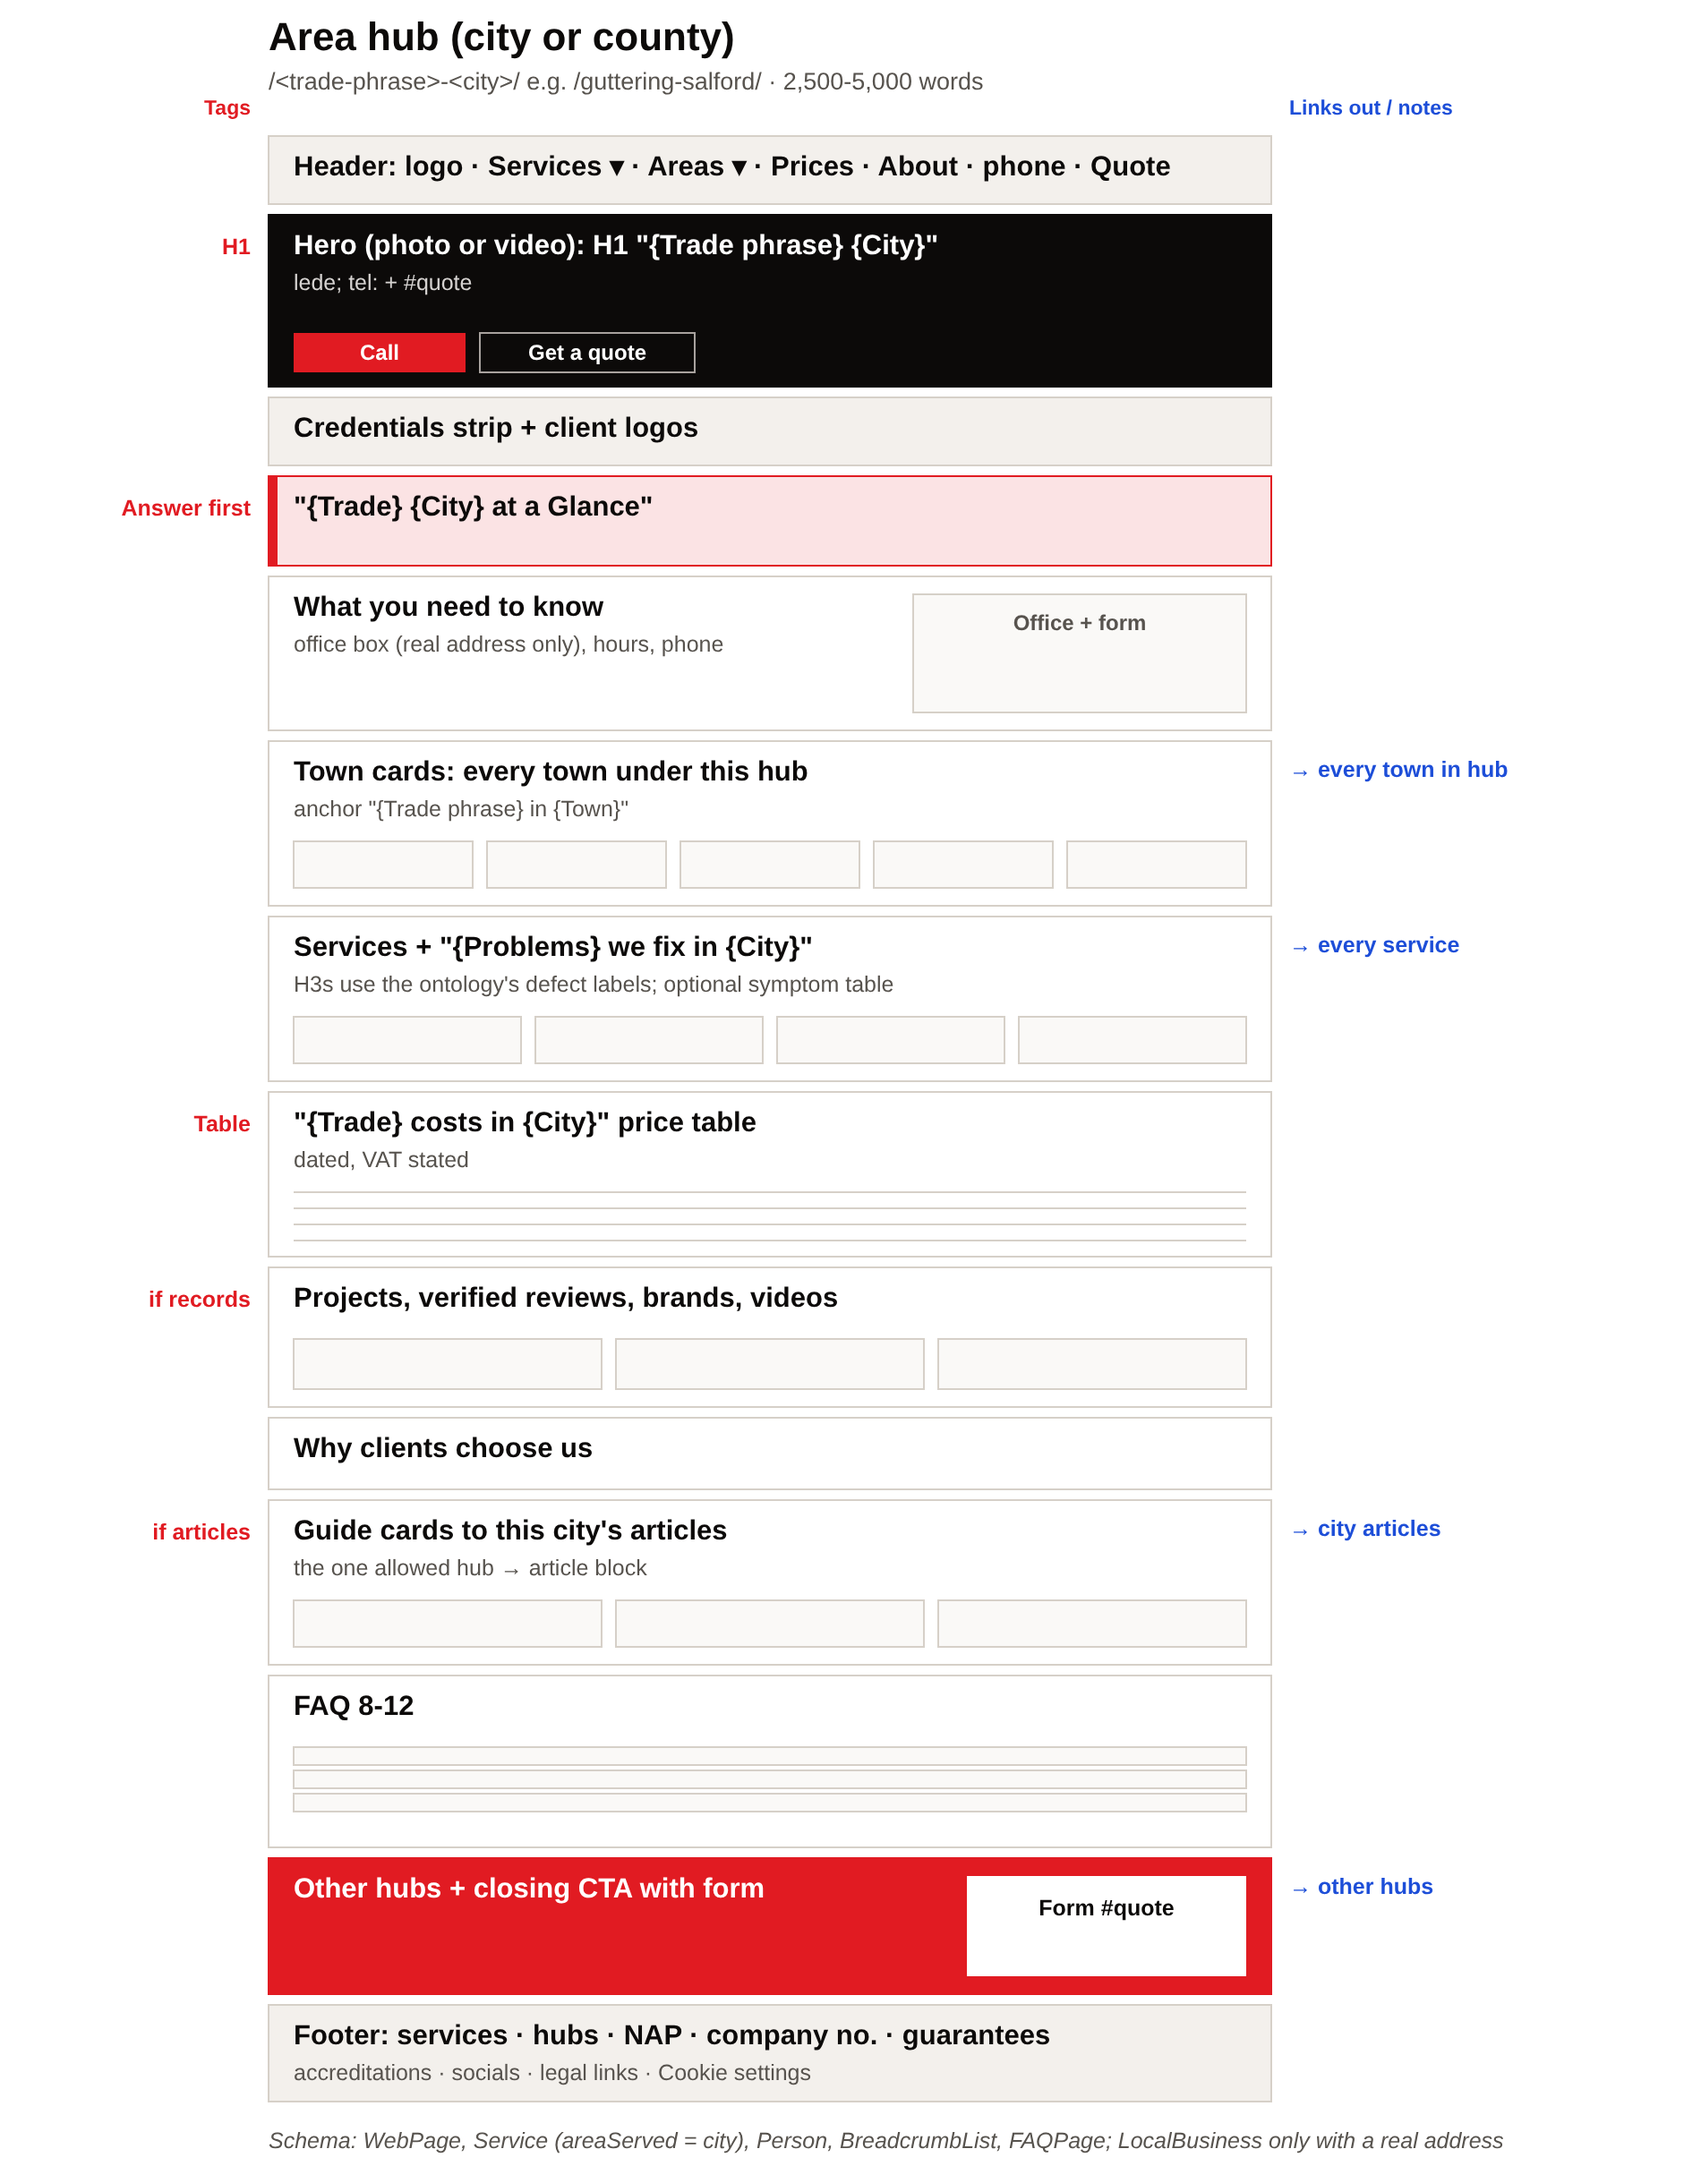
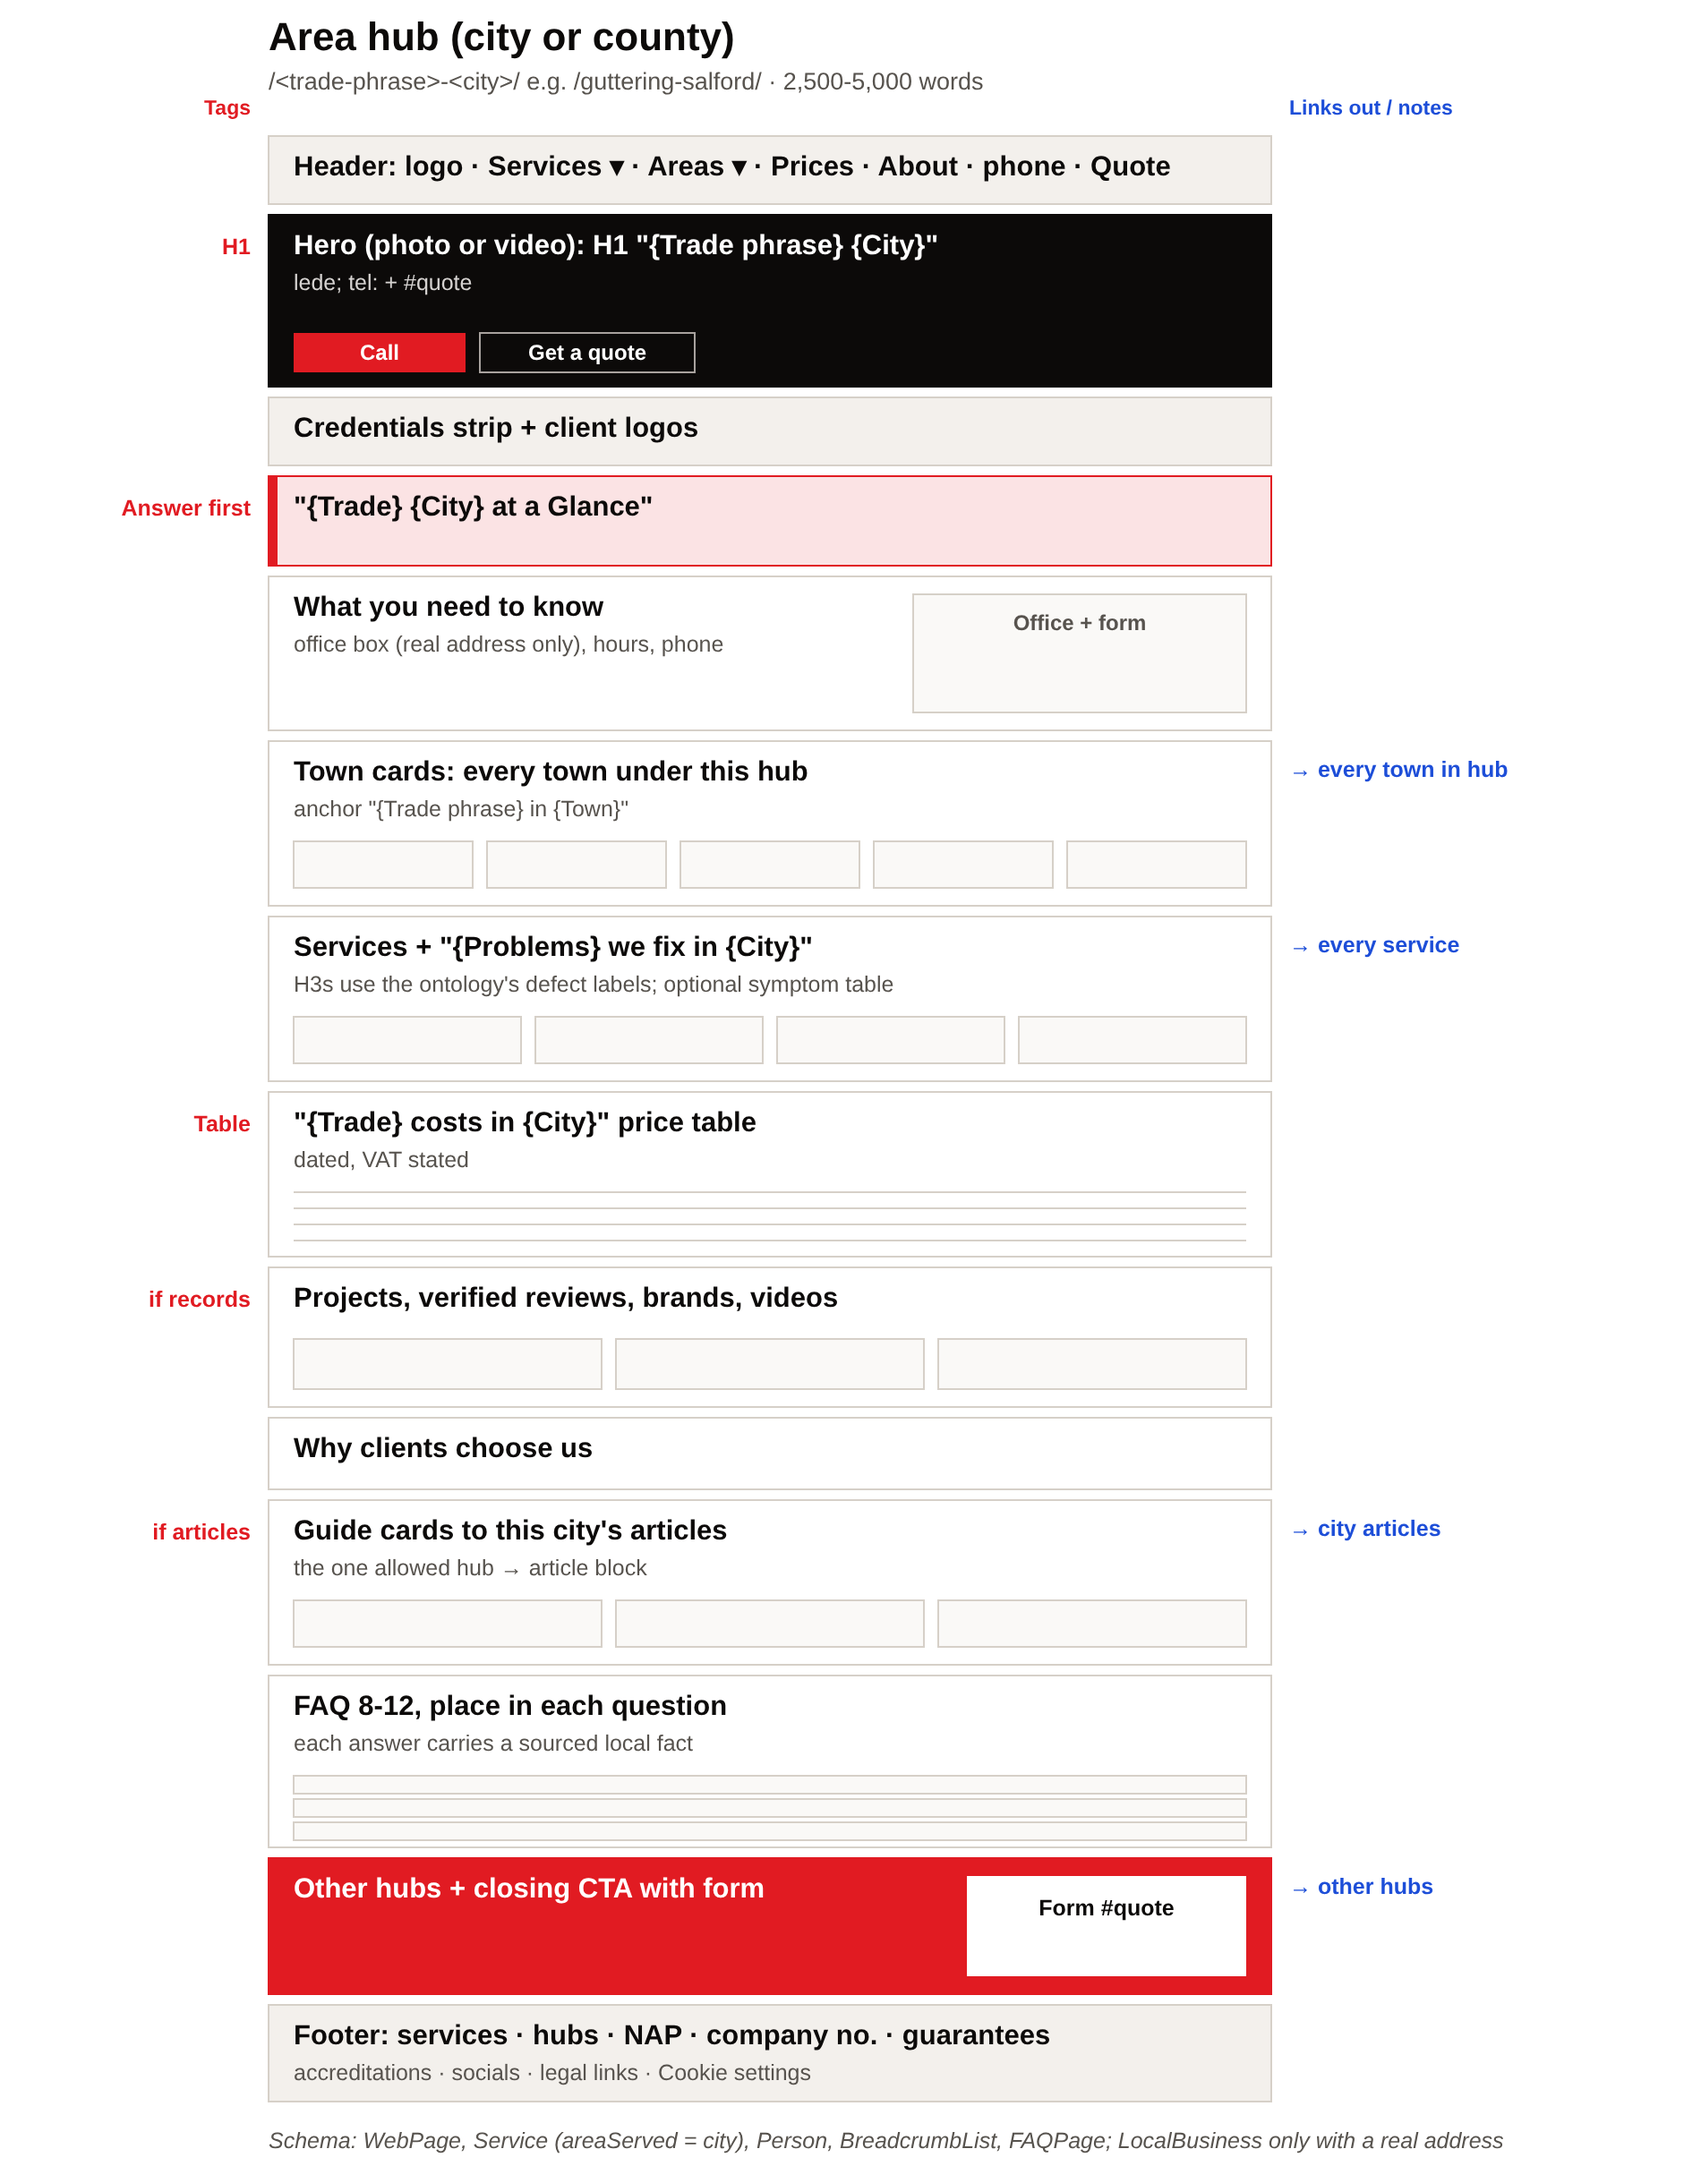
Sync site-content skill with audit-content (#623)
Local FAQs on town and hub pages.

Claude-Session: https://claude.ai/code/session_017vTfMo1gkAD778K6pSTUtw

Changed region(s): [[0.1553, 0.7748, 0.7453, 0.8368]]

diff --git a/.claude/skills/site-content/references/page-templates.md b/.claude/skills/site-content/references/page-templates.md
@@ -17,7 +17,7 @@ Every commercial page shares: hero with H1 and tel: + `#quote` buttons, credenti
 | 7 | Services grid: one card per service, H3 = the service phrase, one line, link to the service page | required | |
 | 8 | Short costings table for the town with a link to the full price guide | required | identical figures on 188 pages is the pattern to avoid; use the town's own rows or say the range is province-wide |
 | 9 | Evidence of work here: a job photo, filmed job, case study or review from the town | if records | if none exists, an honest "not yet filmed in {Town}" line, never borrowed proof |
-| 10 | FAQ: 6-8 questions with the town in the question (planning, regulations, weather, insurance, cost, response time), `<details>` or button with `aria-expanded`, FAQPage matching word for word | required | |
+| 10 | FAQ: 6-8 questions (planning, regulations, weather, insurance, cost, response time); every question names the place, and every answer carries at least one local fact from the place brief (conservation areas and Article 4 directions, typical housing, council rules, exposure and weather), linked to its source, usually the council's own page. No local fact for a question means a different question: a generic answer with the place name swapped in does not count. `<details>` or button with `aria-expanded`, FAQPage matching word for word | required | |
 | 11 | Nearby areas: chips to in-hub siblings (nearest 10-30), plus "All {Hub}" | required | never a fixed alphabetical slice |
 | 12 | Other cities (multi-city sites only): cards to the other hubs, anchor "{Trade phrase} {City}" | if multi-city | |
 | 13 | Closing CTA with the form at `#quote` | required | |
@@ -39,7 +39,7 @@ Links out: every service, 10-30 siblings, the hub, the proof page; zero to artic
 | 8 | Recent projects (case cards), verified reviews, brands installed, videos | if records |
 | 9 | Why clients choose us | required |
 | 10 | Guide cards to this city's articles (the one allowed hub → article link block) | if articles exist |
-| 11 | FAQ 8-12, FAQPage matching | required |
+| 11 | FAQ 8-12, FAQPage matching; every question names the place, and every answer carries at least one local fact from the place brief (conservation areas and Article 4 directions, typical housing, council rules, exposure and weather), linked to its source, usually the council's own page. No local fact for a question means a different question: a generic answer with the place name swapped in does not count | required |
 | 12 | Other cities, closing CTA with form | required |
 | Schema | as town, plus LocalBusiness with the real postal address where one exists | |
 
@@ -88,6 +88,8 @@ Section-for-section mirror of the hub for one service: hero → logos → "what 
 | 15 | Related cards: the service, "Your area", "All areas"; "{Trade phrase} {Town}" chips | required |
 | 16 | One closing CTA band with the form | required |
 | Schema | BlogPosting or Article (author Person = owner, publisher = organisation, about = Place), BreadcrumbList, FAQPage | |
+
+Why local FAQs: a London roofer's area pages (bernardandrewsroofing.com/areas-we-serve/, checked 25 October 2026) ask place questions and answer them with a council fact ("Islington has Article 4 directions in place across 40 of its 42 conservation areas"), and its Golders Green page was fourth for "roof repairs golders green", behind Checkatrade, TrustATrader and a local roofer. One example, not a measured effect, and its figure was not checked here; our rule adds the source link.
 
 Why the contents list: it lets a reader jump to the one question they came with, and it gives search engines and AI fetchers the page's outline as plain links. The same cost article uses one (a sticky side column with every H2). Observed, not measured.
 

diff --git a/.claude/skills/site-content/references/headings-and-structure.md b/.claude/skills/site-content/references/headings-and-structure.md
@@ -73,7 +73,7 @@ Length is a floor for coverage, never a target. A page named for the search at 1
 
 ## FAQ block
 
-- 6-8 real questions on town and service pages, 8-12 on hubs, 10-12 on cost and replacement articles (cost, a cheaper or smaller version, emergency call-out, VAT, scaffolding, insurance, repair vs replace, guarantee, grants, how to spot a genuine firm, free quote). The place is in the question on town pages (planning, regulations, weather, insurance).
+- 6-8 real questions on town and service pages, 8-12 on hubs, 10-12 on cost and replacement articles (cost, a cheaper or smaller version, emergency call-out, VAT, scaffolding, insurance, repair vs replace, guarantee, grants, how to spot a genuine firm, free quote). On town and hub pages the place is in every question (planning, regulations, weather, insurance), and every answer carries at least one sourced local fact from the place brief; a generic answer with the place name swapped in does not count.
 - Questions customers actually ask (People Also Ask, calls, reviews); short specific answers using the same facts as the body.
 - One FAQ component site-wide: native `<details>`/`<summary>` or a button that toggles `aria-expanded`; no inline `onclick`. FAQPage schema from the same items, so schema and text cannot differ.
 

diff --git a/.claude/skills/site-content/references/place-brief.md b/.claude/skills/site-content/references/place-brief.md
@@ -39,7 +39,7 @@ The brief is a record in `locations.json` (or equivalent), filled from research 
 | "{Town} weather and your roof" (3 question H3s) | exposure, rain, trees, coast, freeze-thaw |
 | "{Town} property types" (3-4 question H3s) | housing eras, roof types, materials, conservation areas |
 | "Local {trade} in {Town}" | where we are based, response time, access notes |
-| FAQ with the town in the question | planning, regulations, weather, insurance, cost |
+| FAQ with the town in the question, each answer carrying a sourced local fact | planning (conservation areas, Article 4 directions), regulations, weather, insurance, cost; the fact links to the council or other official page |
 | Evidence of work here | jobs, photos, reviews from the records |
 | Nearby areas | the nearest-towns list |
 

diff --git a/.claude/skills/site-content/references/rule-index.md b/.claude/skills/site-content/references/rule-index.md
@@ -35,6 +35,7 @@ Block means fix before merge. Warn means fix or explain in the PR. Where a tool 
 | No skipped heading levels | none | Checker `P-heading-order` | warn |
 | Question H2s on articles | 60%+ | Standards `h2-questions-min-count` (60% on articles, 1 elsewhere) | warn |
 | FAQ questions on commercial pages | 6-8 (town, service), 8-12 (hub) | Standards `mandatory-faq-on-service-page` (counts FAQ items) | warn |
+| Town and hub FAQs: the place in every question; a sourced local fact in every answer | all | Manual (place brief review) | - |
 | Top People Also Ask answered | 3 of top 5 | Standards `h2-covers-real-paa` | warn |
 | No marketing opener | first sentence | Standards `no-fluff-opening` | block |
 | Build-up openers per section | ≤10% | Gate `buildupPct: 10` | warn |
